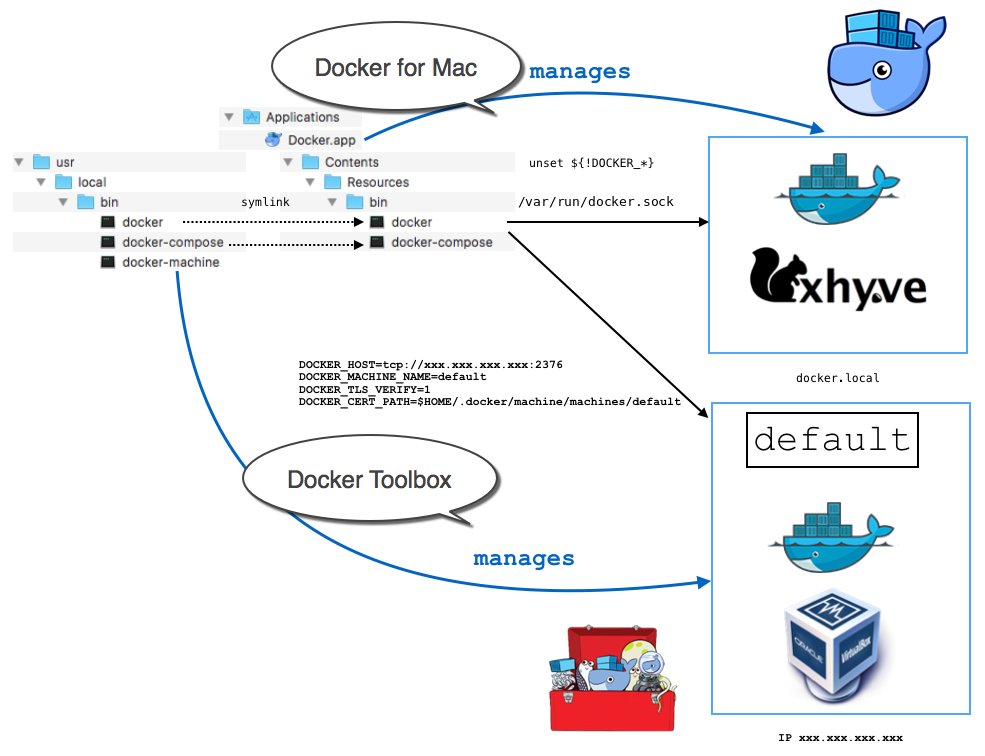
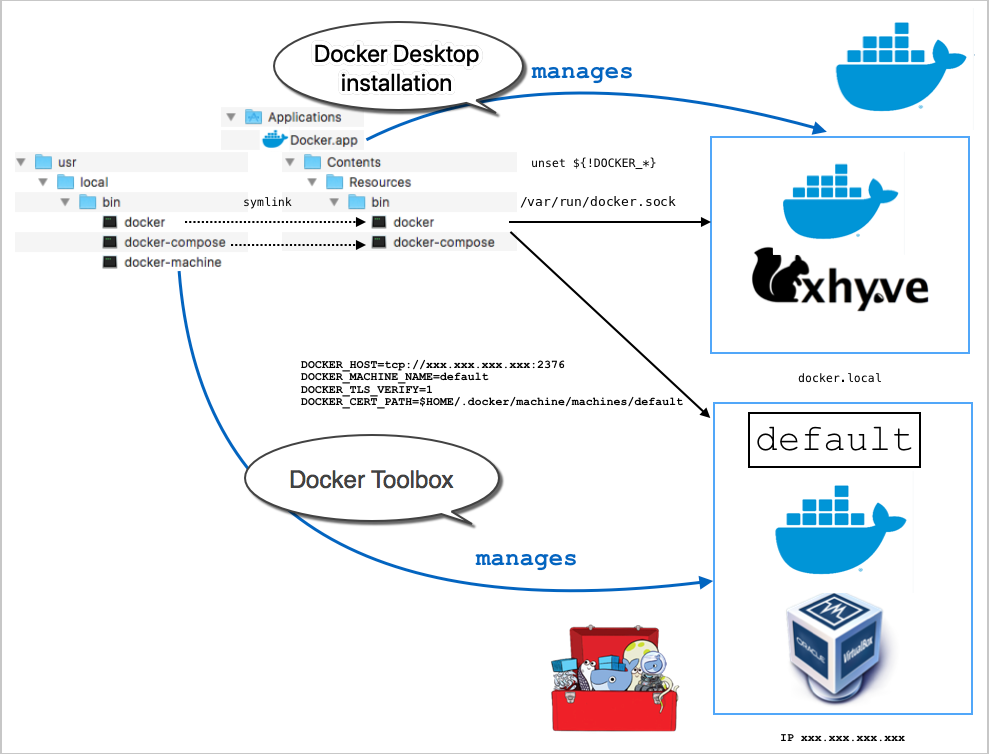
update docker version number and graphics

diff --git a/docker-for-mac/docker-toolbox.md b/docker-for-mac/docker-toolbox.md
@@ -71,7 +71,7 @@ coexistence](docker-toolbox.md#docker-toolbox-and-docker-desktop-coexistence).
         DOCKER_TLS_VERIFY=1
         DOCKER_CERT_PATH=/Users/<your_username>/.docker/machine/machines/default
 
-    If this command returns no output, you are ready to use Docker Desktop for Mac.
+    If this command returns no output, you are ready to use Docker Desktop.
 
     If it returns output (as shown in the example), unset
     the `DOCKER` environment variables to make the client talk to the
@@ -95,7 +95,7 @@ coexistence](docker-toolbox.md#docker-toolbox-and-docker-desktop-coexistence).
 
 > **Note**: If you have a shell script as part of your profile that sets these
 > `DOCKER` environment variables automatically each time you open a command
-> window, then you need to unset these each time you want to use Docker Desktop for Mac.
+> window, then you need to unset these each time you want to use Docker Desktop.
 
 > If you install Docker Desktop on a machine where Docker Toolbox is installed..
 >
@@ -132,20 +132,20 @@ several versions of docker client.
 ### Checking component versions
 
 Ideally, the Docker CLI client and Docker Engine should be the same version.
-Mismatches between client and server, and among host machines you might have
+Mismatches between client and server, and host machines you might have
 created with Docker Machine can cause problems (client can't talk to the server
 or host machines).
 
 If you have already installed [Docker Toolbox](/toolbox/overview/), and then
-install Docker Desktop for Mac, you might get a newer version of the Docker client. Run `docker version` in a command shell to see client and server versions. In this example, the client installed with Docker Desktop is `Version: 1.11.1` and the server (which was installed earlier with Toolbox) is Version: 1.11.0.
+installed Docker Desktop, you might get a newer version of the Docker client. Run `docker version` in a command shell to see client and server versions. In this example, the client installed with Docker Desktop is `Version: 19.03.1` and the server (which was installed earlier with Toolbox) is `Version: 19.03.2`.
 
     $ docker version
     Client:
-    Version:      1.11.1
+    Version:      19.03.1
     ...
 
     Server:
-    Version:      1.11.0
+    Version:      19.03.2
     ...
 
 Also, if you created machines with Docker Machine (installed with Toolbox) then
@@ -156,9 +156,9 @@ is running a different version of server.
 
     $ docker-machine ls
     NAME             ACTIVE   DRIVER         STATE     URL                         SWARM   DOCKER    ERRORS
-    aws-sandbox      -        amazonec2      Running   tcp://52.90.113.128:2376            v1.10.0
-    default          *        virtualbox     Running   tcp://192.168.99.100:2376           v1.10.1
-    docker-sandbox   -        digitalocean   Running   tcp://104.131.43.236:2376           v1.10.0
+    aws-sandbox      -        amazonec2      Running   tcp://52.90.113.128:2376            v19.03.1
+    default          *        virtualbox     Running   tcp://192.168.99.100:2376           v19.03.2
+    docker-sandbox   -        digitalocean   Running   tcp://104.131.43.236:2376           v19.03.1
 
 You might also run into a similar situation with Docker Universal Control Plane (UCP).
 
